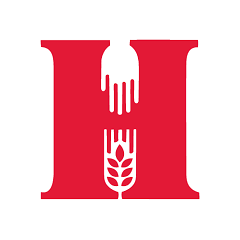
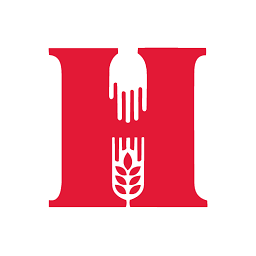
Adjusted admin picture size

Changed region(s): [[0.1458, 0.1458, 0.8458, 0.8458]]

diff --git a/style.css b/style.css
@@ -425,6 +425,7 @@ footer {
 
 #comment #profile {
     position: absolute;
+    top: 16px;
     left: 24px;
     height: 64px;
     width: 64px;
@@ -432,8 +433,8 @@ footer {
 }
 
 #comment.admin #profile {
-    height: 60px;
-    width: 60px;
+    height: 56px;
+    width: 56px;
     border: 4px solid var(--color-logo);
 }
 
@@ -493,8 +494,8 @@ footer {
     }
 
     #comment.admin #profile {
-        height: 48px;
-        width: 48px;
+        height: 44px;
+        width: 44px;
     }
 
     #comment #time {
